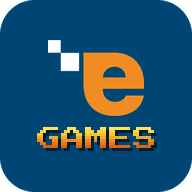
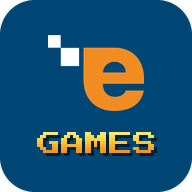
App: scritta "GAMES" dell'icona più staccata dalla "e" e meno rossa
Claude-Session: https://claude.ai/code/session_01LdUZVoKfYuMV2hAhBE7cjt

Changed region(s): [[0.1875, 0.6562, 0.8438, 0.8125], [0.25, 0.1562, 0.75, 0.625], [0.3125, 0.3438, 0.4375, 0.375]]

diff --git a/docs/specifiche/app-giocatori.md b/docs/specifiche/app-giocatori.md
@@ -16,7 +16,7 @@ Il giocatore si registra con nome ed email e accede con la sola email. I record 
 | `config.js` | `SUPABASE_URL`, `SUPABASE_ANON_KEY`, `PUBLIC_URL` |
 | `sw.js` | Service worker: cache offline e aggiornamenti |
 | `manifest.webmanifest` | Nome, icone, `display: standalone`, `start_url ./` |
-| `icons/` | Icona dell'app (favicon, apple-touch, 192, 512 e maskable): la "e" arancione di Efuture con i quadratini bianchi, la stessa della testa di Efuture Bros (`games/sysadmin/img/logo-testa.png`), su sfondo blu `#004675`; sotto, la scritta "GAMES" in Press Start 2P a pixel pieni, con fasce dal giallo all'arancione e ombra blu scuro come nei giochi anni '80 (la favicon ha solo la "e") |
+| `icons/` | Icona dell'app (favicon, apple-touch, 192, 512 e maskable): la "e" arancione di Efuture con i quadratini bianchi, la stessa della testa di Efuture Bros (`games/sysadmin/img/logo-testa.png`), su sfondo blu `#004675`; sotto, la scritta "GAMES" in Press Start 2P a pixel pieni, staccata dalla "e", con fasce dal giallo all'arancione efuture (senza toni rossi) e ombra blu scuro come nei giochi anni '80 (la favicon ha solo la "e") |
 | `vendor/supabase.js`, `vendor/jsQR.js` | Client Supabase, lettura dei QR |
 
 Ordine degli script in `index.html`: `config.js?v=N`, `vendor/supabase.js`, `backend.js?v=N`, `vendor/jsQR.js`, `hub.js?v=N`. Al `load` della pagina viene registrato `sw.js`.
